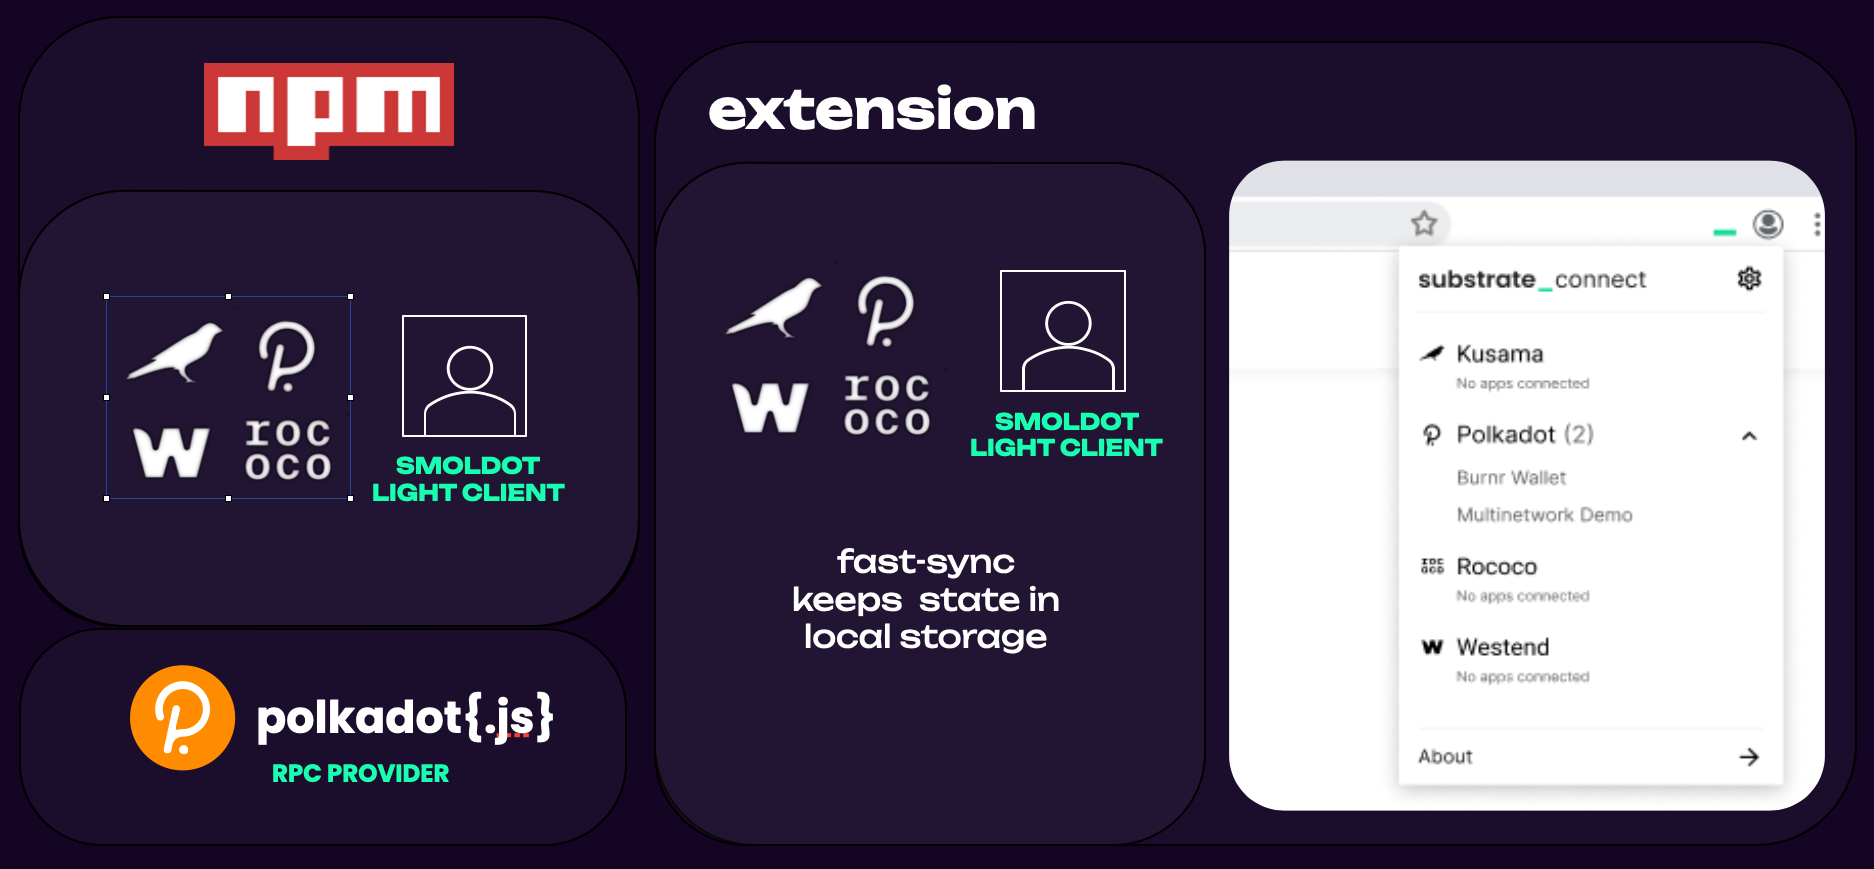
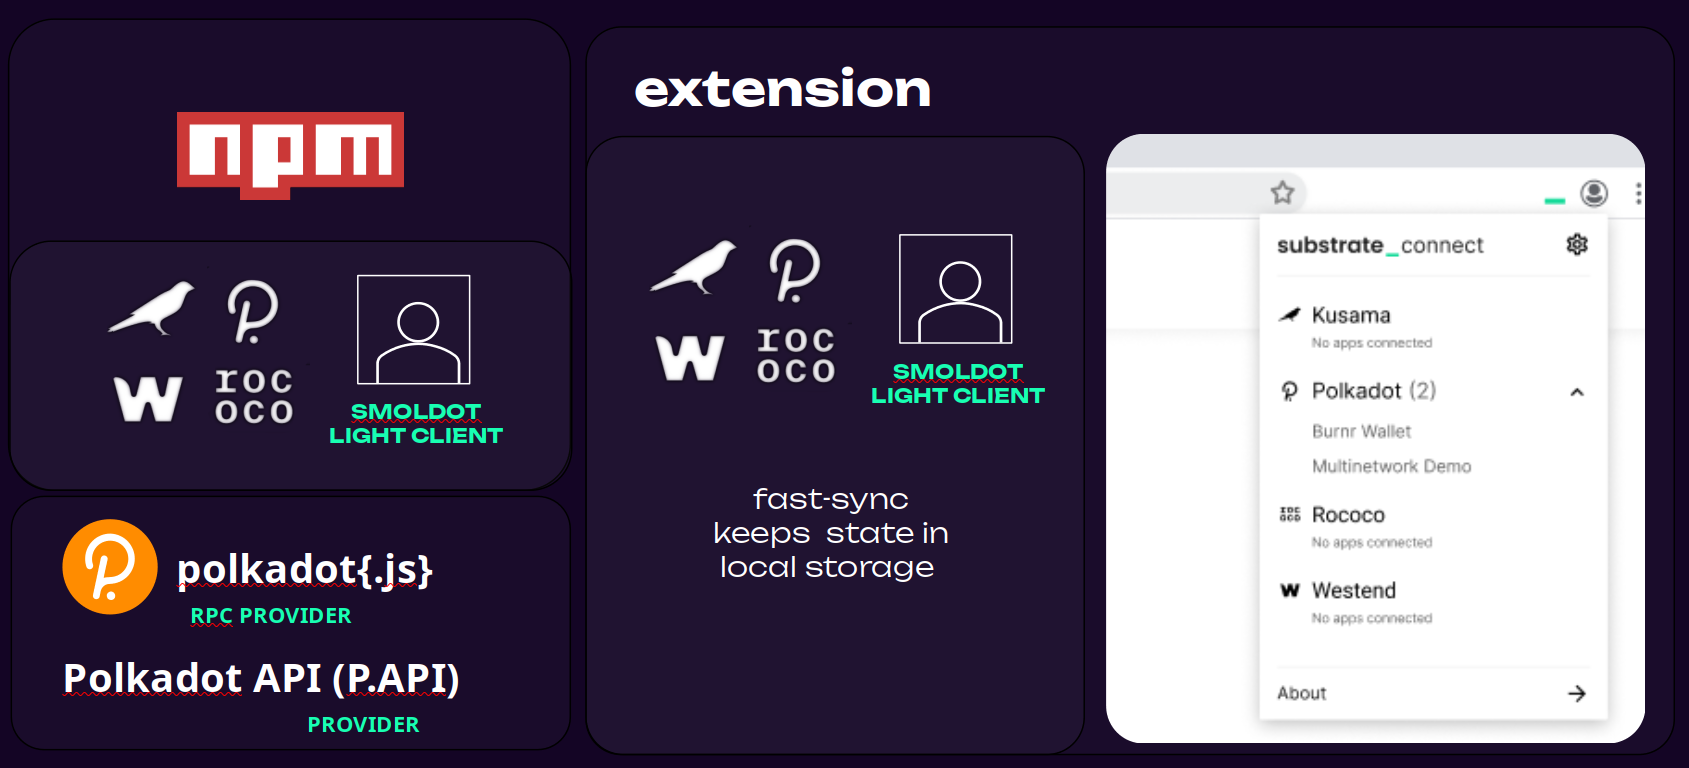
Fix light clients lecture

diff --git a/syllabus/7-Polkadot/Light-clients-and-unstoppable-apps/Light-clients-and-unstoppable-apps-slides.md b/syllabus/7-Polkadot/Light-clients-and-unstoppable-apps/Light-clients-and-unstoppable-apps-slides.md
@@ -65,7 +65,7 @@ I will pause there for a few seconds to let this sink in;
 
 ---v
 
-<img rounded style="width: 30%;" src="./img/learn-student.gif" />
+<img rounded style="width: 45%;" src="./img/learn-student.gif" />
 
 Notes:
 
@@ -308,22 +308,51 @@ Full video: https://tinyurl.com/decoded-talisman-light-client
 
 ---v
 
-<h2>How does a light client know where to connect to</h2>
+### How does a light client know
 
-<pba-cols>
-  <pba-col left>
-    <img rounded style="width: 100%" src="./img/where_to_1.png" />
-  </pba-col>
-  <!-- .element: class="fragment" data-fragment-index="1" -->
-  <pba-col left>
-    <img rounded style="width: 100%" src="./img/where_to_2.png" />
-  </pba-col>
-  <!-- .element: class="fragment" data-fragment-index="2" -->
-</pba-cols>
+### where to connect to
+
+Notes:
+A normal node has a
+
+---v
+
+<h2>Chainspec</h2>
+
+```json[0|2|3|4|5-9|10-15|16-18|19-21|22-27]
+{
+  "name": "Polkadot",
+  "id": "polkadot",
+  "chainType": "Live",
+  "properties": {
+    "ss58Format": 0,
+    "tokenDecimals": 10,
+    "tokenSymbol": "DOT"
+  },
+  "bootNodes": [
+    "/dns/bootnode-0.polkadot.io/tcp/30333/wss/p2p/12D3KooWHJBMZgt7ymAdTRtadPcGXpJw79vBGe8z53r9JMkZW7Ha",
+    "/dns/bootnode-1.polkadot.io/tcp/30334/wss/p2p/12D3KooWSz8r2WyCdsfWHgPyvD8GKQdJ1UAiRmrcrs8sQB3fe2KU",
+    ....
+    "/dns/bootnode-n.polkadot.io/tcp/30334/wss/p2p/12D3KooWEjk6QXrZJ26fLpaajisJGHiz6WiQsR8k7mkM9GmWKnRZ"
+  ],
+  "forkBlocks": null,
+  "badBlocks": null,
+  "consensusEngine": null,
+  "genesis": {
+    "stateRootHash": "0x29d0d972cd2e8df205f00472e5ab354a4e17"
+  },
+  "lightSyncState": {
+    "babeEpochChanges": "0x04a3aea....00000040000000000000002", // ~70k chars
+    "babeFinalizedBlockWeight": 4767107,
+    "finalizedBlockHeader": "0x34a6572....45314925780", // ~500 chars
+    "grandpaAuthoritySet": "0xa5042f8da...005e4a2301" // ~70k chars
+  }
+}
+```
 
 Notes:
 
-As you probably already learned a chain specification is a configuration file that defines the parameters and initial settings for a blockchain network.
+As you probably already learned a chain specification is a "configuration file" that defines the parameters and initial settings for a blockchain network.
 
 It serves as a blueprint for launching and running a new blockchain node, providing essential information to set up the network;
 
@@ -332,7 +361,9 @@ Our Substrate nodes can produce what is called a Chain spec which Smoldot then u
 
 ---v
 
-### How does a light client know what/who to trust
+### How does a light client know
+
+### what/who to trust
 
 <img rounded style="margin-top: 150px; width: 70%" src="./img/know-who-to-trust.png" />
 <!-- .element: class="fragment" data-fragment-index="1" -->
@@ -392,25 +423,24 @@ A Light client receives these justifications and this way it verifies the authen
 </pba-cols>
 <pba-cols>
   <pba-col left>
-    <div class="white, bg-[var(--r-heading-color)] text-base rounded-2xl p-4 !mt-2">Fully verifies all blocks (authenticity/validity)</div>
-    <div class="white, bg-[var(--r-heading-color)] text-base rounded-2xl p-4 !mt-2">Holds all the chain’s storage in its database</div>
-    <div class="white, bg-[var(--r-heading-color)] text-base rounded-2xl p-4 !mt-2">Holds all past blocks in its database</div>
-    <div class="white, bg-[var(--r-heading-color)] text-base rounded-2xl p-4 !mt-2">At initial startup, can take hours to be
+    <div class="white bg-[var(--r-heading-color)] text-base rounded-2xl p-4 !mt-2">Fully verifies all blocks (authenticity/validity)</div>
+    <div class="white bg-[var(--r-heading-color)] text-base rounded-2xl p-4 !mt-2">Holds all the chain’s storage in its database</div>
+    <div class="white bg-[var(--r-heading-color)] text-base rounded-2xl p-4 !mt-2">Holds all past blocks in its database</div>
+    <div class="white bg-[var(--r-heading-color)] text-base rounded-2xl p-4 !mt-2">At initial startup, can take hours to be
 ready</div>
   </pba-col>
 
   <pba-col left>
-    <div class="white, bg-[var(--r-heading-color)] text-base rounded-2xl p-4 !mt-2">Only verifies the authenticity of blocks</div>
-    <div class="white, bg-[var(--r-heading-color)] text-base rounded-2xl p-4 !mt-2">Requests state of the chain on demand</div>
-    <div class="white, bg-[var(--r-heading-color)] text-base rounded-2xl p-4 !mt-2">No database whatsoever</div>
-    <div class="white, bg-[var(--r-heading-color)] text-base rounded-2xl p-4 !mt-2">Initializes in few seconds</div>
+    <div class="white bg-[var(--r-heading-color)] text-base rounded-2xl p-4 !mt-2">Only verifies the authenticity of blocks</div>
+    <div class="white bg-[var(--r-heading-color)] text-base rounded-2xl p-4 !mt-2">Requests state of the chain on demand</div>
+    <div class="white bg-[var(--r-heading-color)] text-base rounded-2xl p-4 !mt-2">No database whatsoever</div>
+    <div class="white bg-[var(--r-heading-color)] text-base rounded-2xl p-4 !mt-2">Initializes in few seconds</div>
   </pba-col>
 </pba-cols>
 
 ---
 
 <img src="./img/words.png" />
-<!-- .element: class="fragment" data-fragment-index="1" -->
 
 Notes:
 
@@ -490,6 +520,7 @@ Notes:
 
 - npm package
 - rpc provider from polkadotJS
+- The newest Polkadot API, a composable, modular, and “light-client first” alternative to PJS.
 - Chrome and Mozilla extension
 - Comes with 4 integrated "Well Known" chains (Kusama, Polkadot, Westend, Rococo) - which means these chains can be used without the need of providing chainspecs;
 
@@ -501,8 +532,12 @@ Notes:
   <diagram class="mermaid">
     stateDiagram-v2
       Smoldot_Light_Client --> Substrate_connect
+      Smoldot_Light_Client --> P.API
       Substrate_connect --> PolkadotJS_API
       PolkadotJS_API --> UI_dAPP
+
+      Substrate_connect --> P.API
+      P.API --> UI_dAPP
 
       Smoldot_Light_Client --> Custom_Code\n(with_JSON_RPC_API)
       Custom_Code\n(with_JSON_RPC_API) --> UI_dAPP
@@ -535,6 +570,10 @@ The dApp (UI) connects to a third-party-owned publicly-accessible node client
 <p class="bg-red-600 rounded-2xl p-4 !mt-2"><span class="font-bold">Centralized and insecure:</span> Publicly-accessible node can be malicious</p>
 <p class="bg-green-600 rounded-2xl p-4 !mt-2"><span class="font-bold">Convenient:</span> Works transparently</p>
 
+Notes:
+
+We saw 3 different scenarios. Lets analyze each one in order to understand what is the most effecient and secure way for a dApp to connect to the nodes network and become unstoppable
+
 ---v
 
 ## So what one needs to do
@@ -548,7 +587,7 @@ The dApp (UI) connects to a third-party-owned publicly-accessible node client
 
 ## In your dApp
 
-```javascript[0|1|3-5|7-9]
+```javascript[0|1|3-4|5|7-9]
 import { ApiPromise, WsProvider } from "@polkadot/api";
 
 // Maybe some more code that does some magic here
@@ -596,20 +635,25 @@ The dApp (UI) connects to a node client that the user has installed on their mac
 <!-- .element: class="fragment" data-fragment-index="2" -->
 <p>..........</p>
 <!-- .element: class="fragment" data-fragment-index="3" -->
-<p>..................</p>
+<p>.... too long ? ? ....</p>
 <!-- .element: class="fragment" data-fragment-index="4" -->
-<p>......wait for it.......</p>
+<p>.................................</p>
 <!-- .element: class="fragment" data-fragment-index="5" -->
-<p>..............................</p>
+<p>.........................................</p>
 <!-- .element: class="fragment" data-fragment-index="6" -->
-<p>ok</p>
+<p>........... maybe get some water ?...........</p>
 <!-- .element: class="fragment" data-fragment-index="7" -->
+<p>...................................................</p>
+<!-- .element: class="fragment" data-fragment-index="8" -->
+<!-- .element: class="fragment" data-fragment-index="9" -->
+<p>done</p>
+<!-- .element: class="fragment" data-fragment-index="10" -->
 
 ---v
 
 ## In your dApp
 
-```javascript[|1|3-5|7-9]
+```javascript[0|1|3-4|5|7-9]
 import { ApiPromise, WsProvider } from "@polkadot/api";
 
 // Maybe some more code that does some magic here
@@ -761,7 +805,7 @@ Stay with me - the next is the last but not the easiest part:
 
 - **Eclipse attacks (full nodes and light clients both affected)**.
   Blockchain is a P2P network - and Smoldot tries to connect to a variety of nodes of this network (from the bootnodes).
-  Imagine if all these nodes were to refuse sending data back, that would isolate smoldot from the network - The way that smoldot learns which nodes exist, is from the nodes themselves (bootnodes).
+  Imagine if all these nodes were to refuse sending data back, that would isolate smoldot from the network - The way that smoldot learns which nodes exist (GOSSIP) is from the nodes themselves (bootnodes).
   If smoldot is only ever connected to malicious nodes, it won't ever be able to reach non-malicious nodes - if the list of bootnodes only contains malicious nodes, smoldot will never be able to reach any non-malicious node.
   If the list of bootnodes contains a single honest node, then smoldot will be able to reach the whole network.
   !!! this attack is effectively a denial-of-service, as it will prevent smoldot from accessing the blockchain!
